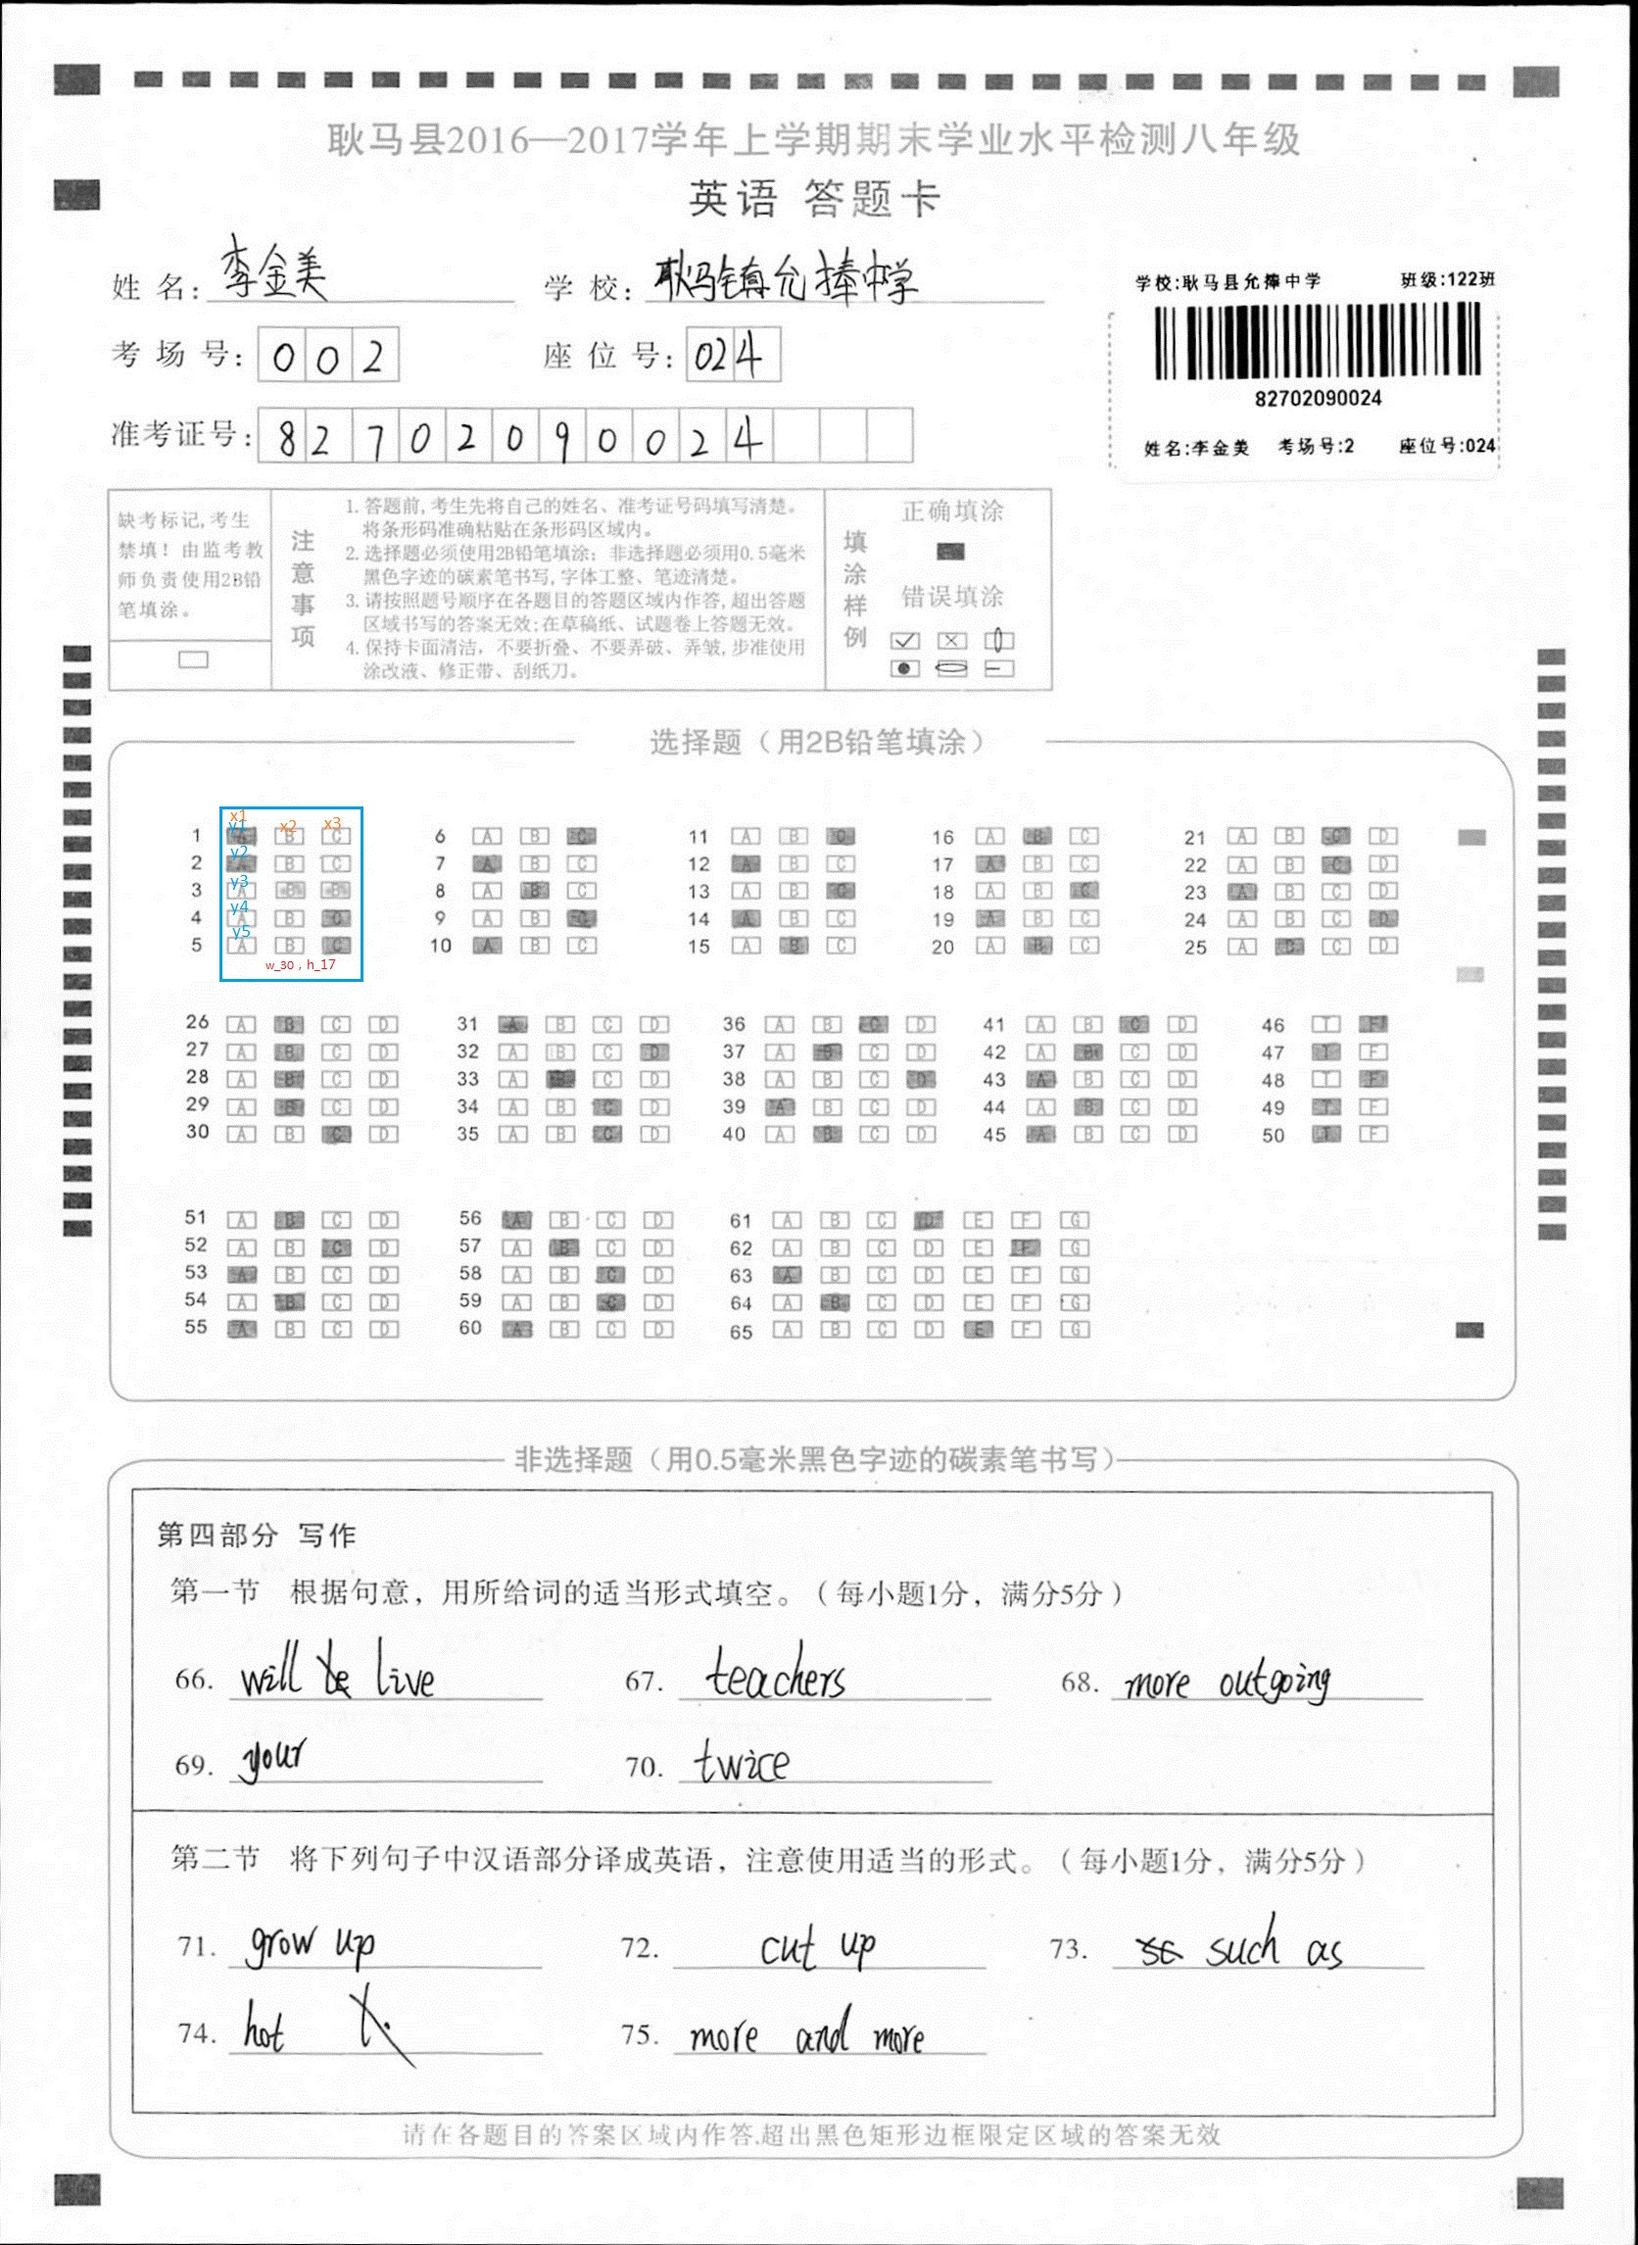
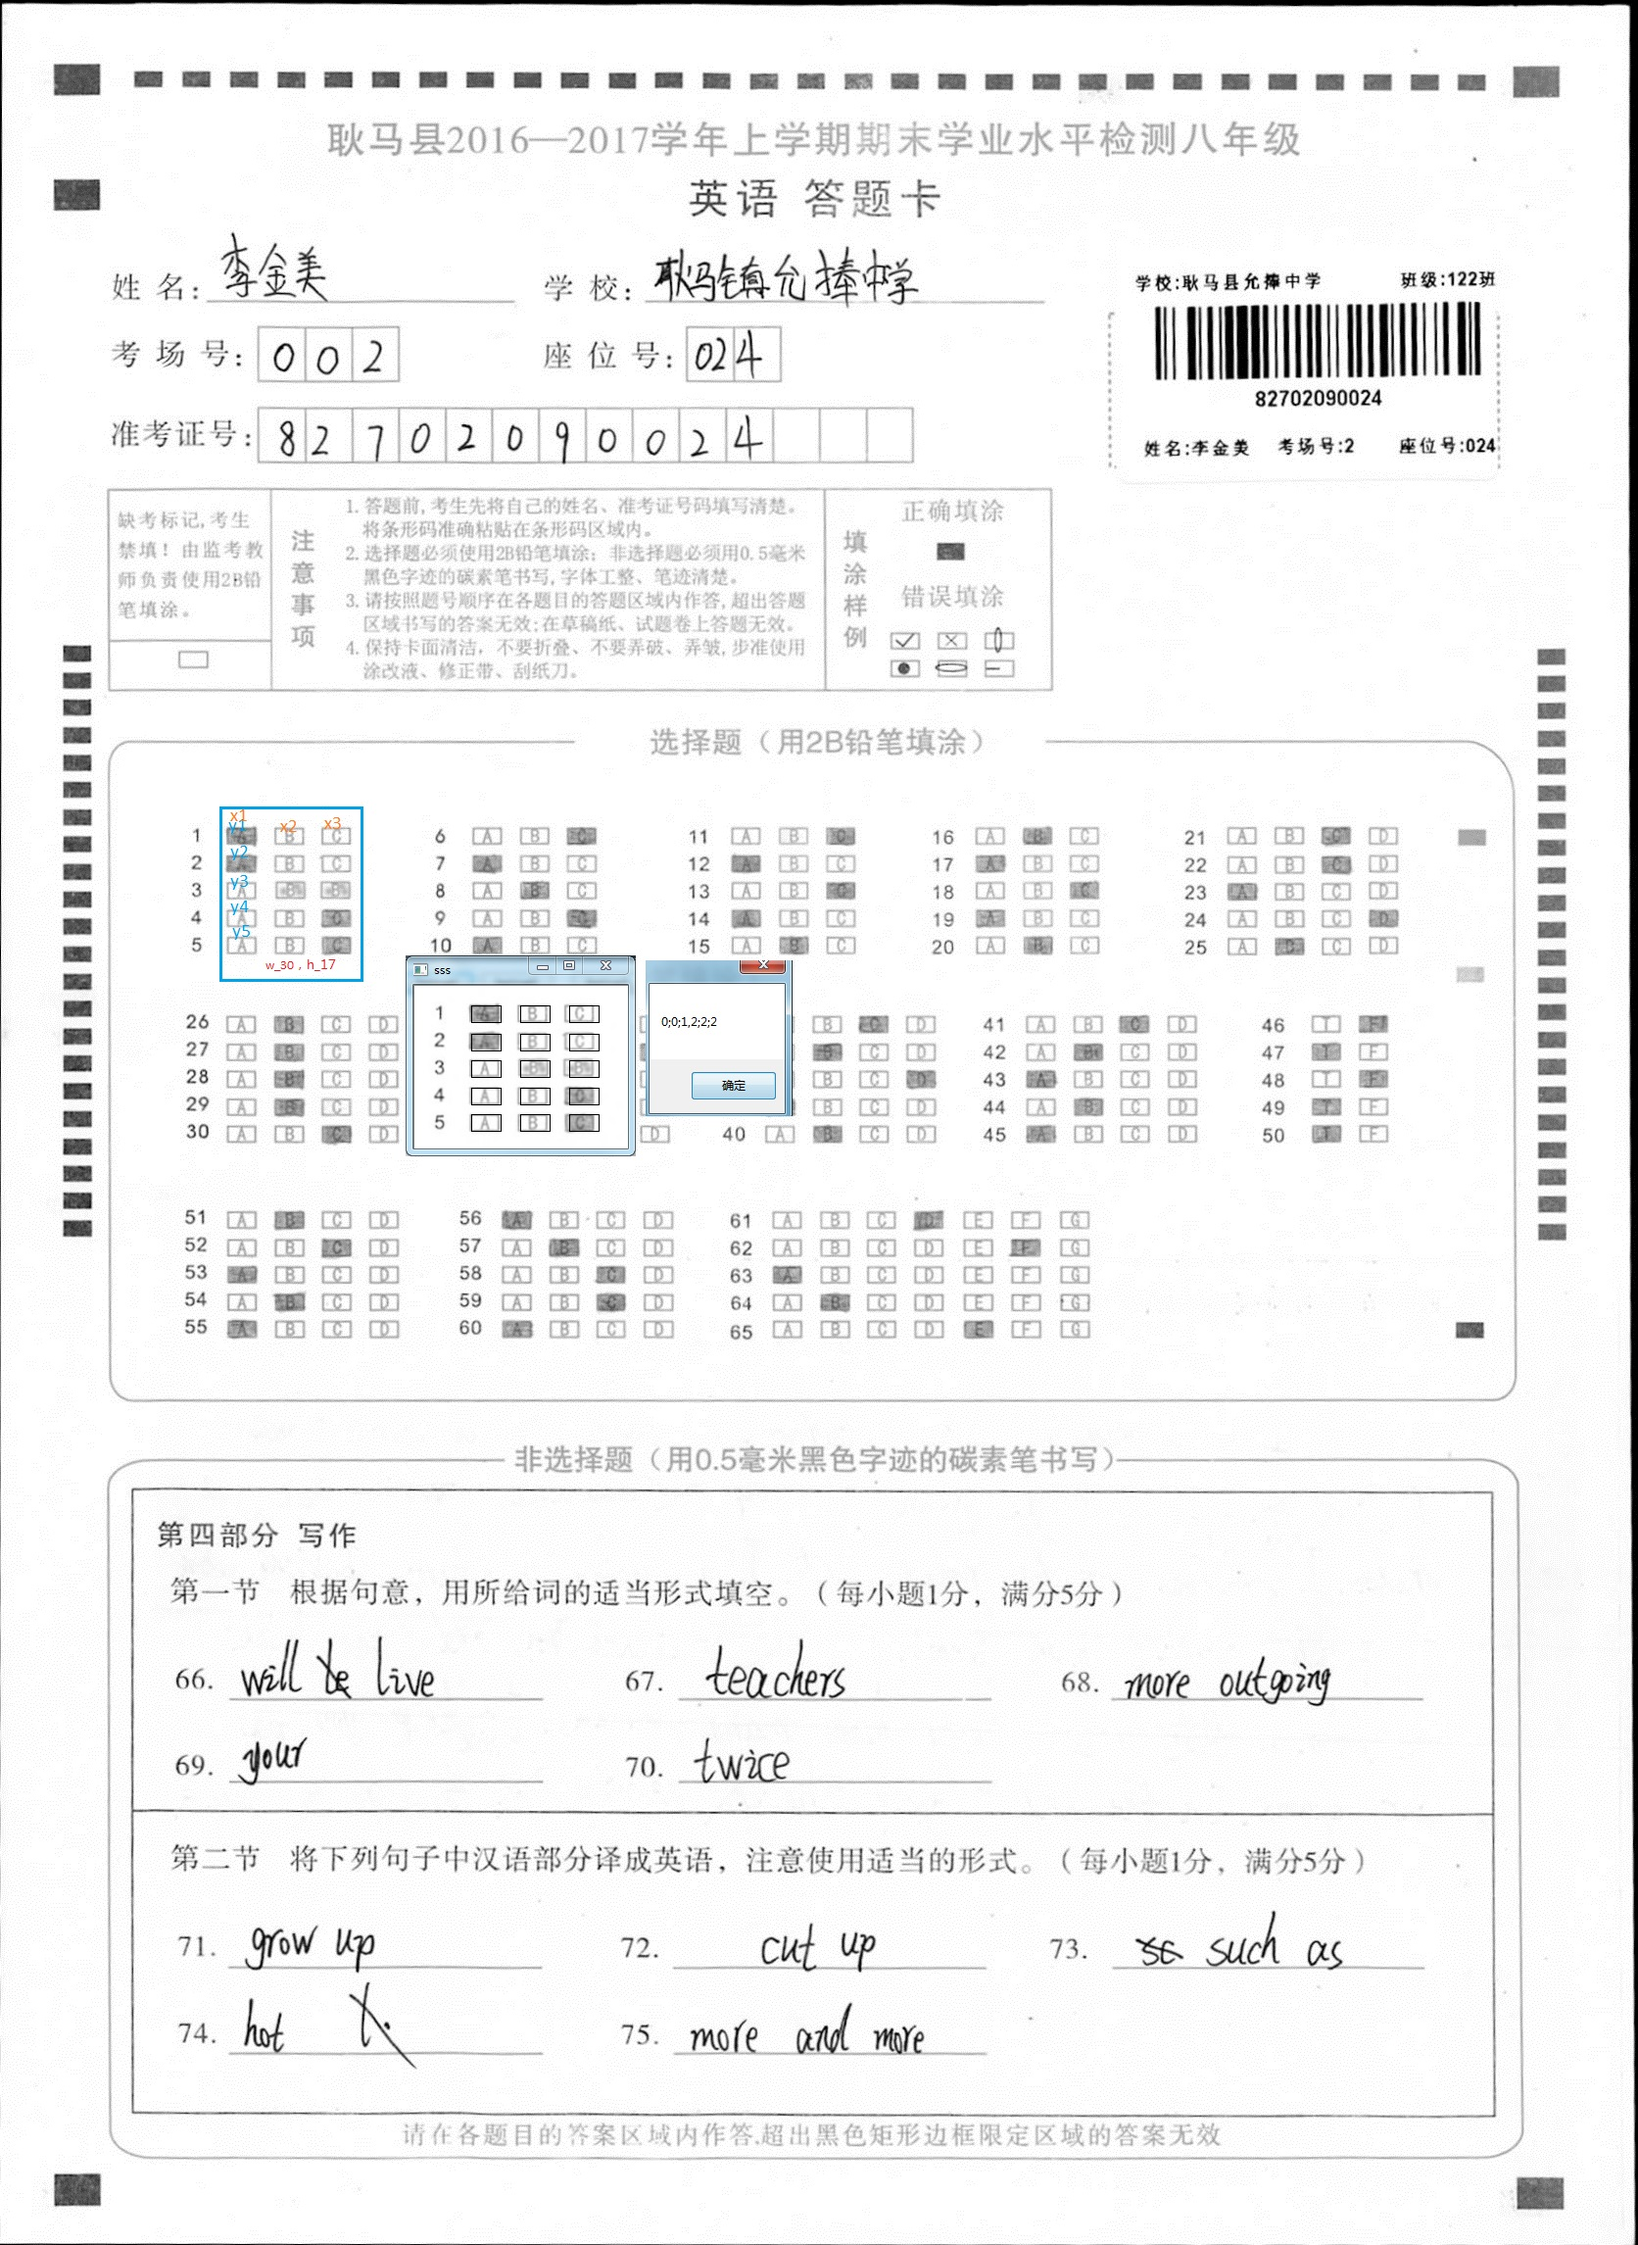
first commit

Changed region(s): [[0.2488, 0.4029, 0.4976, 0.5268]]

diff --git a/Ems.Utils/Dtos/DetectOmrInput.cs b/Ems.Utils/Dtos/DetectOmrInput.cs
@@ -1,0 +1,31 @@
+using System;
+using System.Collections.Generic;
+using System.Linq;
+using System.Text;
+using System.Threading.Tasks;
+
+namespace Ems.Utils.Dtos
+{
+    public class DetectOmrInput
+    {
+        public string PageId { get; set; }
+
+        public int GroupX { get; set; }
+        public int GroupY { get; set; }
+        public int GroupWidth { get; set; }
+        public int GroupHeight { get; set; }
+
+        /// <summary>
+        /// 比如说有5列，Pos_Y，逗号分隔
+        /// </summary>
+        public string ColumnPosY { get; set; }
+        /// <summary>
+        /// 一行多少个，间隔，逗号分隔，Pos_X
+        /// </summary>
+        public string ColumnPosX { get; set; }
+
+        public int ColumnWidth { get; set; }
+        public int ColumnHeight { get; set; }
+
+    }
+}

diff --git a/Test.Ems.Utils/TestEmsUntils.cs b/Test.Ems.Utils/TestEmsUntils.cs
@@ -107,7 +107,7 @@ namespace Test.Ems.Utils
                     30, 17);
 
 
-            /* 识别结果为：0;0;1,2;2;2
+            /* 
              * 
              * 
              * 0  字母A~J
@@ -116,13 +116,14 @@ namespace Test.Ems.Utils
              * 3  自定义  自定义序列
              * 根据值类型判断选择的答案，如果值类型为0；
              * 
-             * 识别结果为：0;0;1,2;2;2
-             * 则答案为：A;A;B,C;C;C
+             * 如果识别结果为：0;0;1,2;2;2
+             * 则对应的答案为：A;A;B,C;C;C
              * 
              */
 
             Console.WriteLine(result);
 
+            // 识别结果为：0; 0; 1,2; 2; 2
             Console.ReadLine();
         }
     }

diff --git a/Ems.Utils/DetectOmrHelper.cs b/Ems.Utils/DetectOmrHelper.cs
@@ -33,6 +33,8 @@ namespace Ems.Utils
         {
 
             /*
+             * 
+             * 静态调用，需要将Delphi编译生成的Dll放在程序的Bin目录下；
              * ;分隔；
              * ;;;;，没有识别出来是空  char(0)；
              * 
